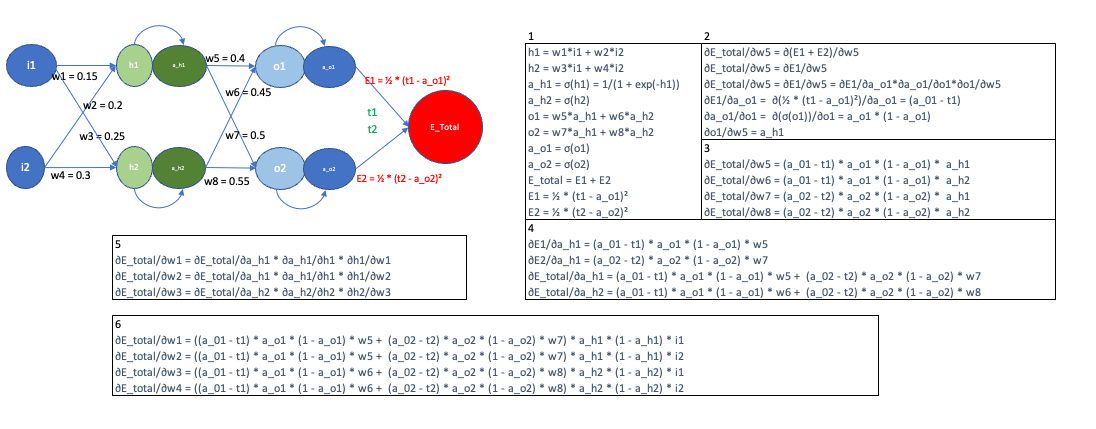
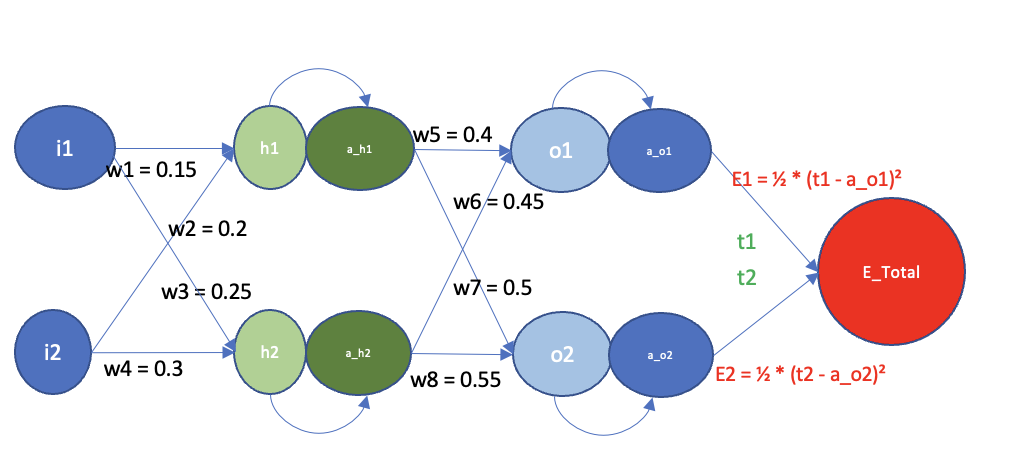
README

diff --git a/S6/PART-1/README.md b/S6/PART-1/README.md
@@ -4,7 +4,7 @@
 This folder contains my submission for the ERA-V1 Session 6 assignment. The file that I used for this assignment is [BackPropagation.xlsx](BackPropagation.xlsx).
 My calculations were done in the sheet named ```Experiment```
 
-## Calculations
+## Calculation Derivation
 
 ![Diagram](ScreenShots/Diagram.png)
 
@@ -16,6 +16,133 @@ t2 = 0.5
 i1 = 0.05
 i2 = 0.1
 ```
+We have also been told that the activation function is the sigmoid function.
 
-We have to calculate the following:
+The given diagram represents a fully connected network. We have fixed inputs and outputs for the network. 
+We need to derive the weights and the activation function values for the network such that the error Etotal is minimised.
+
+From the diagram, the following equations can be derived:
+
+```
+h1 = w1*i1 + w2*i2
+h2 = w3*i1 + w4*i2
+a_h1 = sigmoid(h1)
+a_h2 = sigmoid(h2)
+o1 = w5*a_h1 + w6*a_h2
+o2 = w7*a_h1 + w8*a_h2
+a_o1 = sigmoid(o1)
+a_o2 = sigmoid(o2)
+```
+
+The sigmoid activation function is given by:
+```
+sigmoid(x) = 1/(1 + e^-x)
+```
+
+The error function is given by:
+```
+Etotal = 1/2 * (t1 - a_o1)^2 + 1/2 * (t2 - a_o2)^2
+```
+
+The error function is a function of the weights and the activations. We need to find the values of the weights and the activations such that the error function is minimised.
+The value of any weight Wx is updated using the following equation:
+```
+w = w - (LR * dEtotal/dw)
+```
+where LR is the learning rate and dEtotal/dw is the derivative of the error function with respect to the weight w.
+
+The derivative of the error function with respect to the weight w5 is given by:
+```
+dEtotal/dw5 = dEtotal/da_o1 * da_o1/do1 * do1/dw5
+```
+This is arrived at by applying the chain rule.
+
+Now, we need to find the values of dEtotal/da_o1, da_o1/do1 and do1/dw5.
+```
+dEtotal/da_o1 = 1/2 * 2 * (t1 - a_o1)^1
+              = a_o1 - t1
+da_o1/do1 = a_o1 * (1 - a_o1)
+do1/dw5 = a_h1
+```
+
+Therefore,
+```
+dEtotal/dw5 = (a_o1 - t1) * a_o1 * (1 - a_o1) * a_h1
+```
+
+Similarly, we can find the values of dEtotal/dw6, dEtotal/dw7 and dEtotal/dw8.
+```
+dEtotal/dw6 = (a_o1 - t1) * a_o1 * (1 - a_o1) * a_h2
+dEtotal/dw7 = (a_o2 - t2) * a_o2 * (1 - a_o2) * a_h1
+dEtotal/dw8 = (a_o2 - t2) * a_o2 * (1 - a_o2) * a_h2
+```
+
+Now, we need to find the values of dEtotal/da_h1 and dEtotal/da_h2.
+```
+dEtotal/da_h1 = dEtotal/da_o1 * da_o1/do1 * do1/da_h1
+```
+This again is arrived at by applying the chain rule.
+
+Now, we need to find the values of dEtotal/da_o1, da_o1/do1, do1/da_h1
+```
+dEtotal/da_o1 = 1/2 * 2 * (t1 - a_o1)^1 + 0
+              = a_o1 - t1
+da_o1/do1 = a_o1 * (1 - a_o1)
+do1/da_h1 = w5
+dEtotal/da_o2 = 1/2 * 2 * (t2 - a_o2)^1 + 0
+              = a_o2 - t2
+da_o2/do2 = a_o2 * (1 - a_o2)
+do2/da_h1 = w7
+```
+
+Therefore,
+```
+dEtotal/da_h1 = ((a_o1 - t1) * a_o1 * (1 - a_o1) * w5) + ((a_o2 - t2) * a_o2 * (1 - a_o2) * w7)
+```
+
+Similarly, we can find the value of dEtotal/da_h2.
+```
+dEtotal/da_h2 = ((a_o1 - t1) * a_o1 * (1 - a_o1) * w6) + ((a_o2 - t2) * a_o2 * (1 - a_o2) * w8)
+```
+
+Now, we need to find the values of dEtotal/dw1, dEtotal/dw2, dEtotal/dw3 and dEtotal/dw4.
+```
+dEtotal/dw1 = dEtotal/da_h1 * da_h1/dh1 * dh1/dw1
+```
+
+Now, we need to find the values of dEtotal/da_h1, da_h1/dh1 and dh1/dw1.
+```
+dEtotal/da_h1 = ((a_o1 - t1) * a_o1 * (1 - a_o1) * w5) + ((a_o2 - t2) * a_o2 * (1 - a_o2) * w7)
+da_h1/dh1 = a_h1 * (1 - a_h1)
+dh1/dw1 = i1
+```
+
+Therefore,
+```
+dEtotal/dw1 = (((a_o1 - t1) * a_o1 * (1 - a_o1) * w5) + ((a_o2 - t2) * a_o2 * (1 - a_o2) * w7)) * a_h1 * (1 - a_h1) * i1
+```
+
+Similarly, we can find the values of dEtotal/dw2, dEtotal/dw3 and dEtotal/dw4.
+```
+dEtotal/dw2 = (((a_o1 - t1) * a_o1 * (1 - a_o1) * w5) + ((a_o2 - t2) * a_o2 * (1 - a_o2) * w7)) * a_h1 * (1 - a_h1) * i2
+dEtotal/dw3 = (((a_o1 - t1) * a_o1 * (1 - a_o1) * w6) + ((a_o2 - t2) * a_o2 * (1 - a_o2) * w8)) * a_h2 * (1 - a_h2) * i1
+dEtotal/dw4 = (((a_o1 - t1) * a_o1 * (1 - a_o1) * w6) + ((a_o2 - t2) * a_o2 * (1 - a_o2) * w8)) * a_h2 * (1 - a_h2) * i2
+```
+
+Now, we have the values of all the partial derivatives. We can use these values to update the weights in every iteration.
+In the sheet ```Experiment``` in the Excel file, these values are calculated and the weights are updated in every iteration using the formulae derived above.
+
+## Different Learning Rates
+
+Different Learning Rates are used to train the neural network. We find that the neural network converges faster as the learning rate increases. However, if the learning rate is too high, the neural network does not converge at all. This is because the weights are updated by a large amount in every iteration and the neural network does not converge.
+Attaching screenshots of the neural network converging for different learning rates.
+![Learning Rate = 1](Screenshots/LR1.png)
+![Learning Rate = 0.01](Screenshots/LR02.png)
+![Learning Rate = 0.05](Screenshots/LR05.png)
+![Learning Rate = 0.08](Screenshots/LR08.png)
+![Learning Rate = 10000](Screenshots/LR10000.png)
+
+
+
+
 
